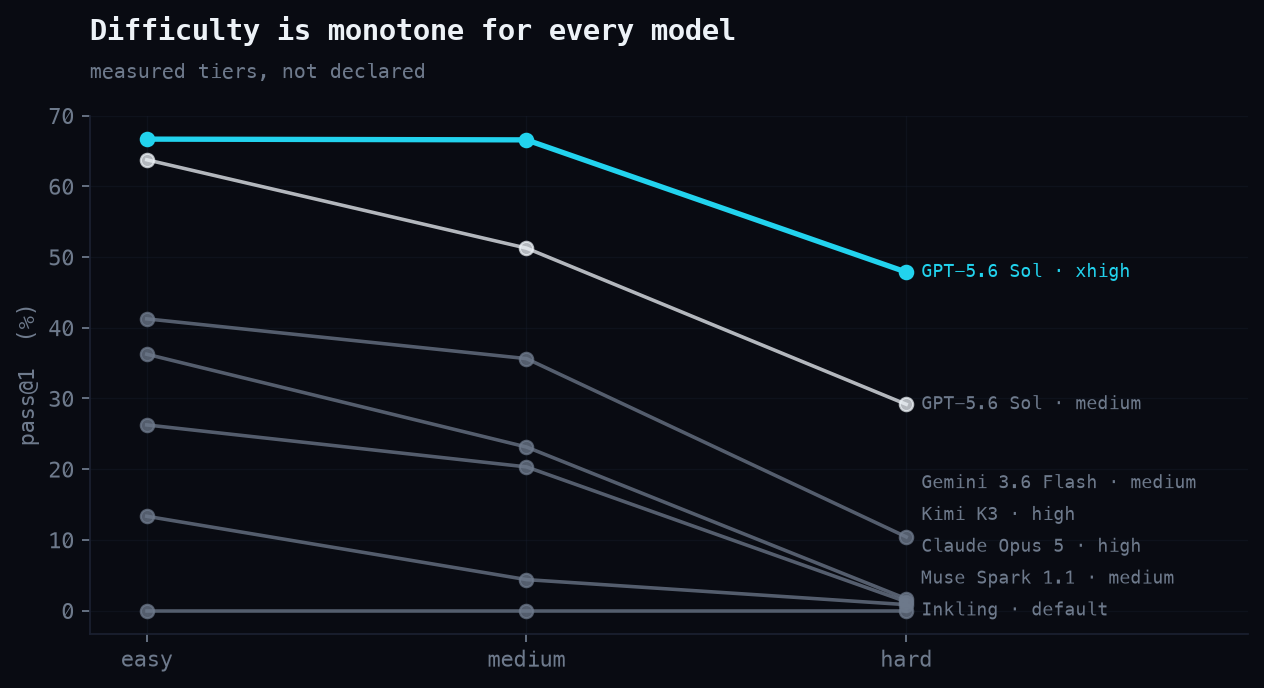
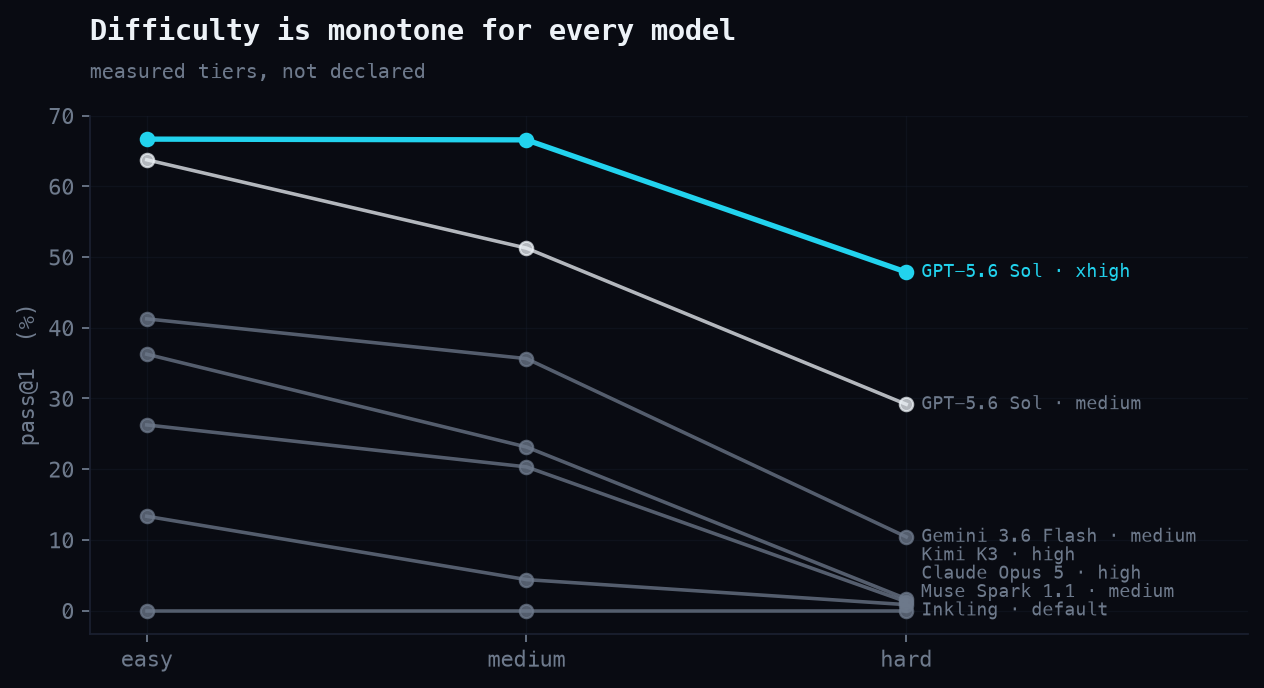
Fingerprints: drop the slop callout; tiers: define + align labels
STUDY now defines how difficulty tiers are measured (geodesic length +
turns/12 + capped branches/10, banded at 1.6/3.0, calibrated pre-build).
Tier chart labels anchor at their curve endpoints with minimal push-apart
instead of even slots; fingerprints chart loses the red annotation.

Changed region(s): [[0.7097, 0.6715, 0.9565, 0.8852], [0.8948, 0.6715, 0.9256, 0.7326], [0.7405, 0.6715, 0.7714, 0.702]]

diff --git a/scripts/make_figures.py b/scripts/make_figures.py
@@ -126,14 +126,14 @@ def fig_tiers(rows):
                 color=CYAN if p == "gpt-xhigh" else (WHITE if p == "openai" else DIM),
                 alpha=1.0 if lead else 0.75)
         finals[p] = vals[-1]
-    # Hard-tier values crowd near zero; spread the labels into non-overlapping
-    # slots (>=4.5pp apart) while keeping their order.
+    # Hard-tier values crowd near zero; keep each label anchored at its curve
+    # endpoint and only push up by the minimum needed to stay legible.
     order_by_val = sorted(ORDER, key=lambda p: finals[p])
     slot = None
     slots = {}
     for p in order_by_val:
         y = finals[p]
-        slot = y if slot is None else max(y, slot + 4.5)
+        slot = y if slot is None else max(y, slot + 2.6)
         slots[p] = slot
     for p in ORDER:
         ax.text(2.04, slots[p], NAMES[p], color=CYAN if p == "gpt-xhigh" else DIM,
@@ -349,8 +349,6 @@ def fig_fingerprints():
                 va="center", ha=ha)
     ax.text(2, 0.66, "measures the image:\nmessy decimals, lands on the badge",
             color=CYAN, fontsize=8.5)
-    ax.text(50, 13, "estimates from a coarse sketch:\nround numbers, ~25px of slop",
-            color=RED, fontsize=8.5, va="top")
     ax.set_xlabel("share of coordinates that are round numbers (exact 0.01 grid)")
     ax.set_ylabel("how far the path starts from\nthe start badge (median px, log)")
     ax.set_yscale("log")

diff --git a/STUDY.md b/STUDY.md
@@ -117,7 +117,17 @@ Adjacent ranks separate on paired tests except **Kimi K3 vs Claude Opus 5**
 (+4.2pp, CI spans zero, p=0.25) — those two are tied on pass@1, though McNemar
 separates them on any-of-8 reliability (p=0.017).
 
-Difficulty is monotone for every model across measured tiers, which is the
+Difficulty tiers are **measured from the built task, never declared by the
+sampler**: each task's score combines the geodesic route length (normalized by
+the canvas diagonal), the number of ≥30° turns along that route, and the
+junction count on the retained route — `score = length + turns/12 +
+branches/10` (branches capped at 15). Score below 1.6 is *easy*, below 3.0
+*medium*, and everything above *hard*; the bands were calibrated on the smoke
+set before the dataset was built. The sampler aims for a tier by choosing
+generation parameters, but the recorded tier is what the finished maze
+actually measures.
+
+Difficulty is monotone for every model across these tiers, which is the
 validity check the tiers exist for.
 
 ![Tiers](results/figures/02-tiers.png)
